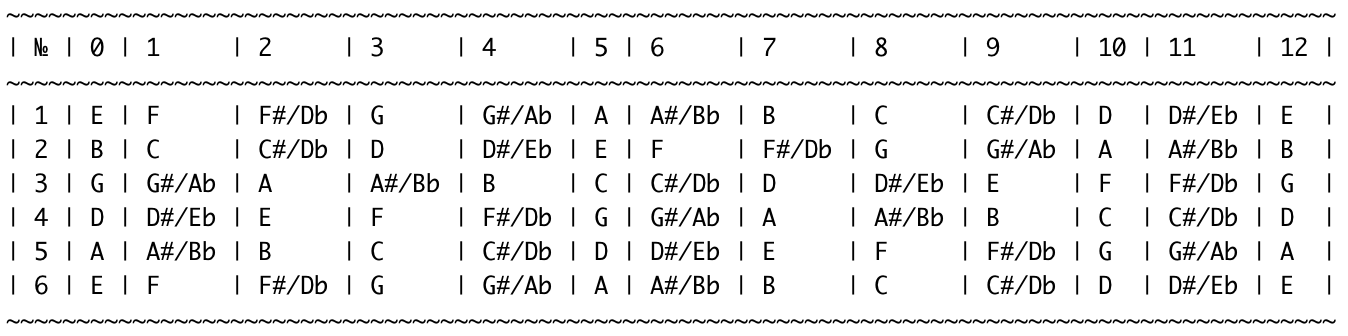
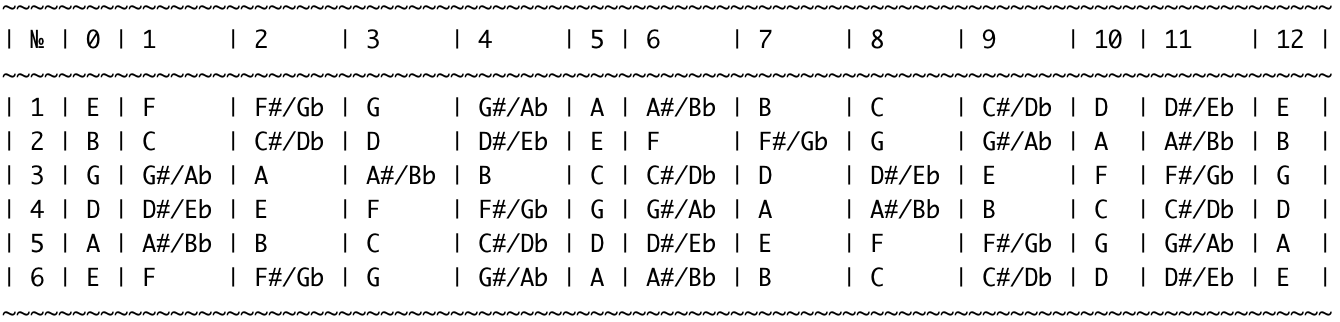
Fixed note

diff --git a/lib/fretboard/notes.rb b/lib/fretboard/notes.rb
@@ -19,7 +19,7 @@ module Fretboard
       6 => 'F',
       7 => [
         'F sharp',
-        'D flat'
+        'G flat'
       ],
       8 => 'G',
       9 => [
